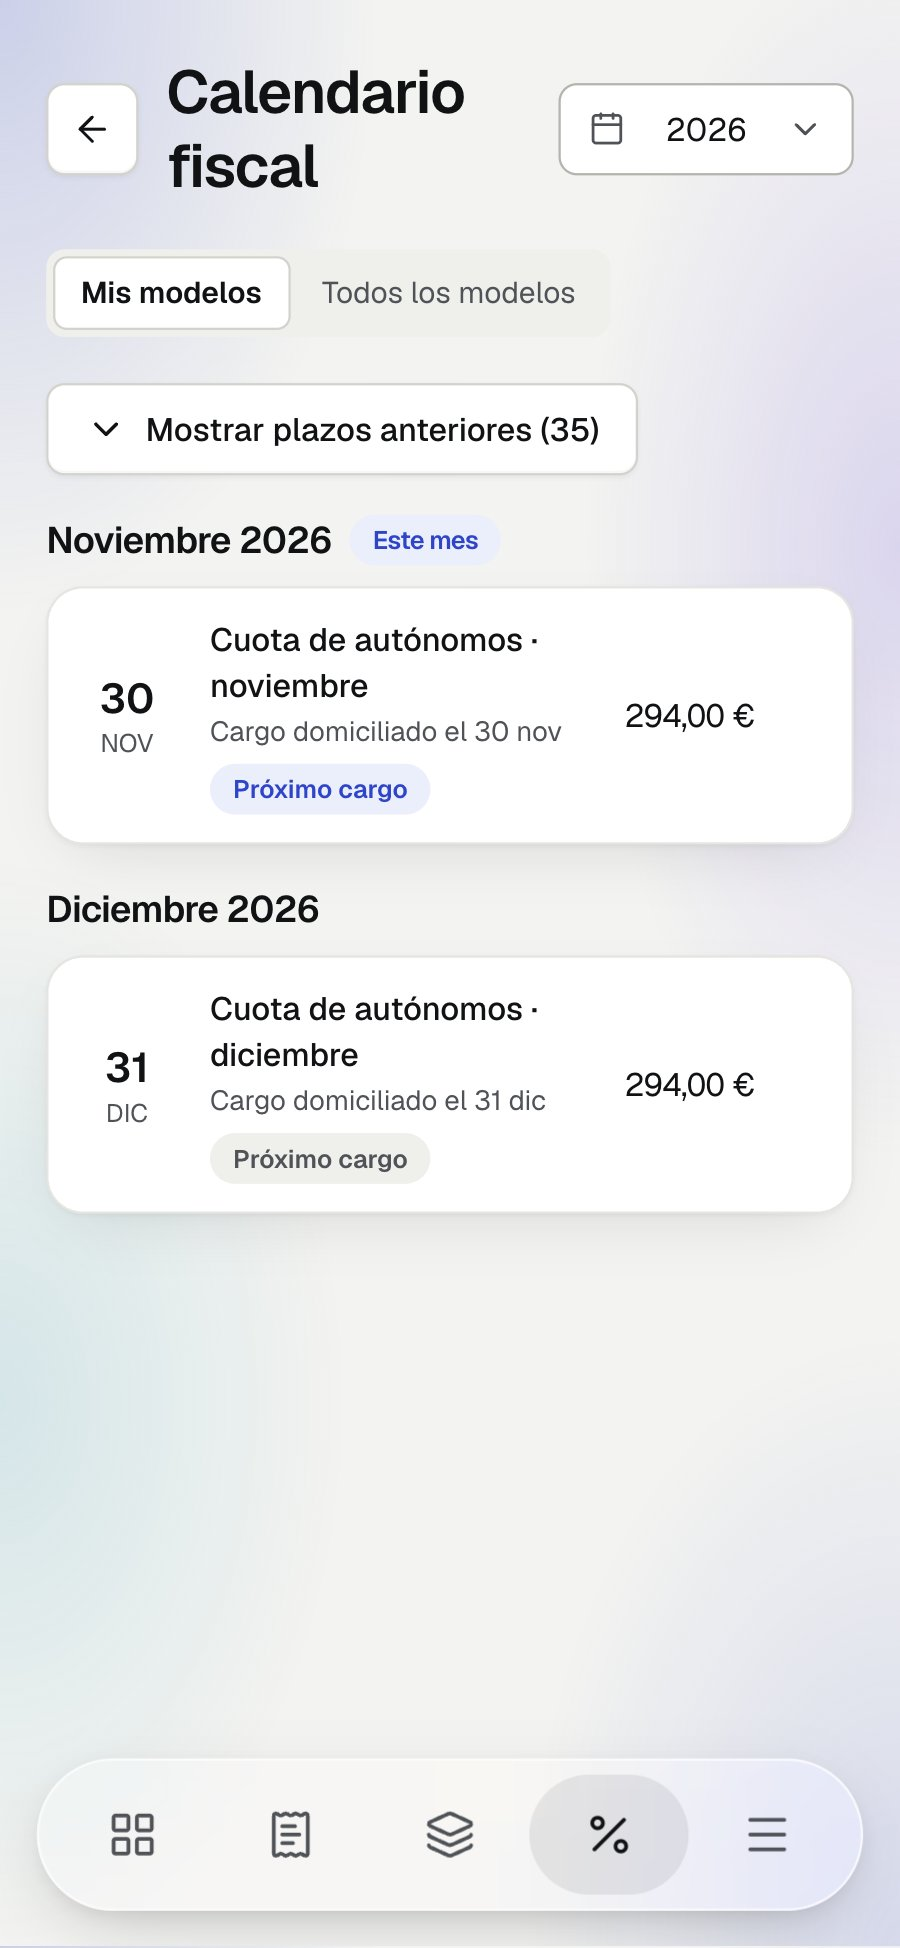
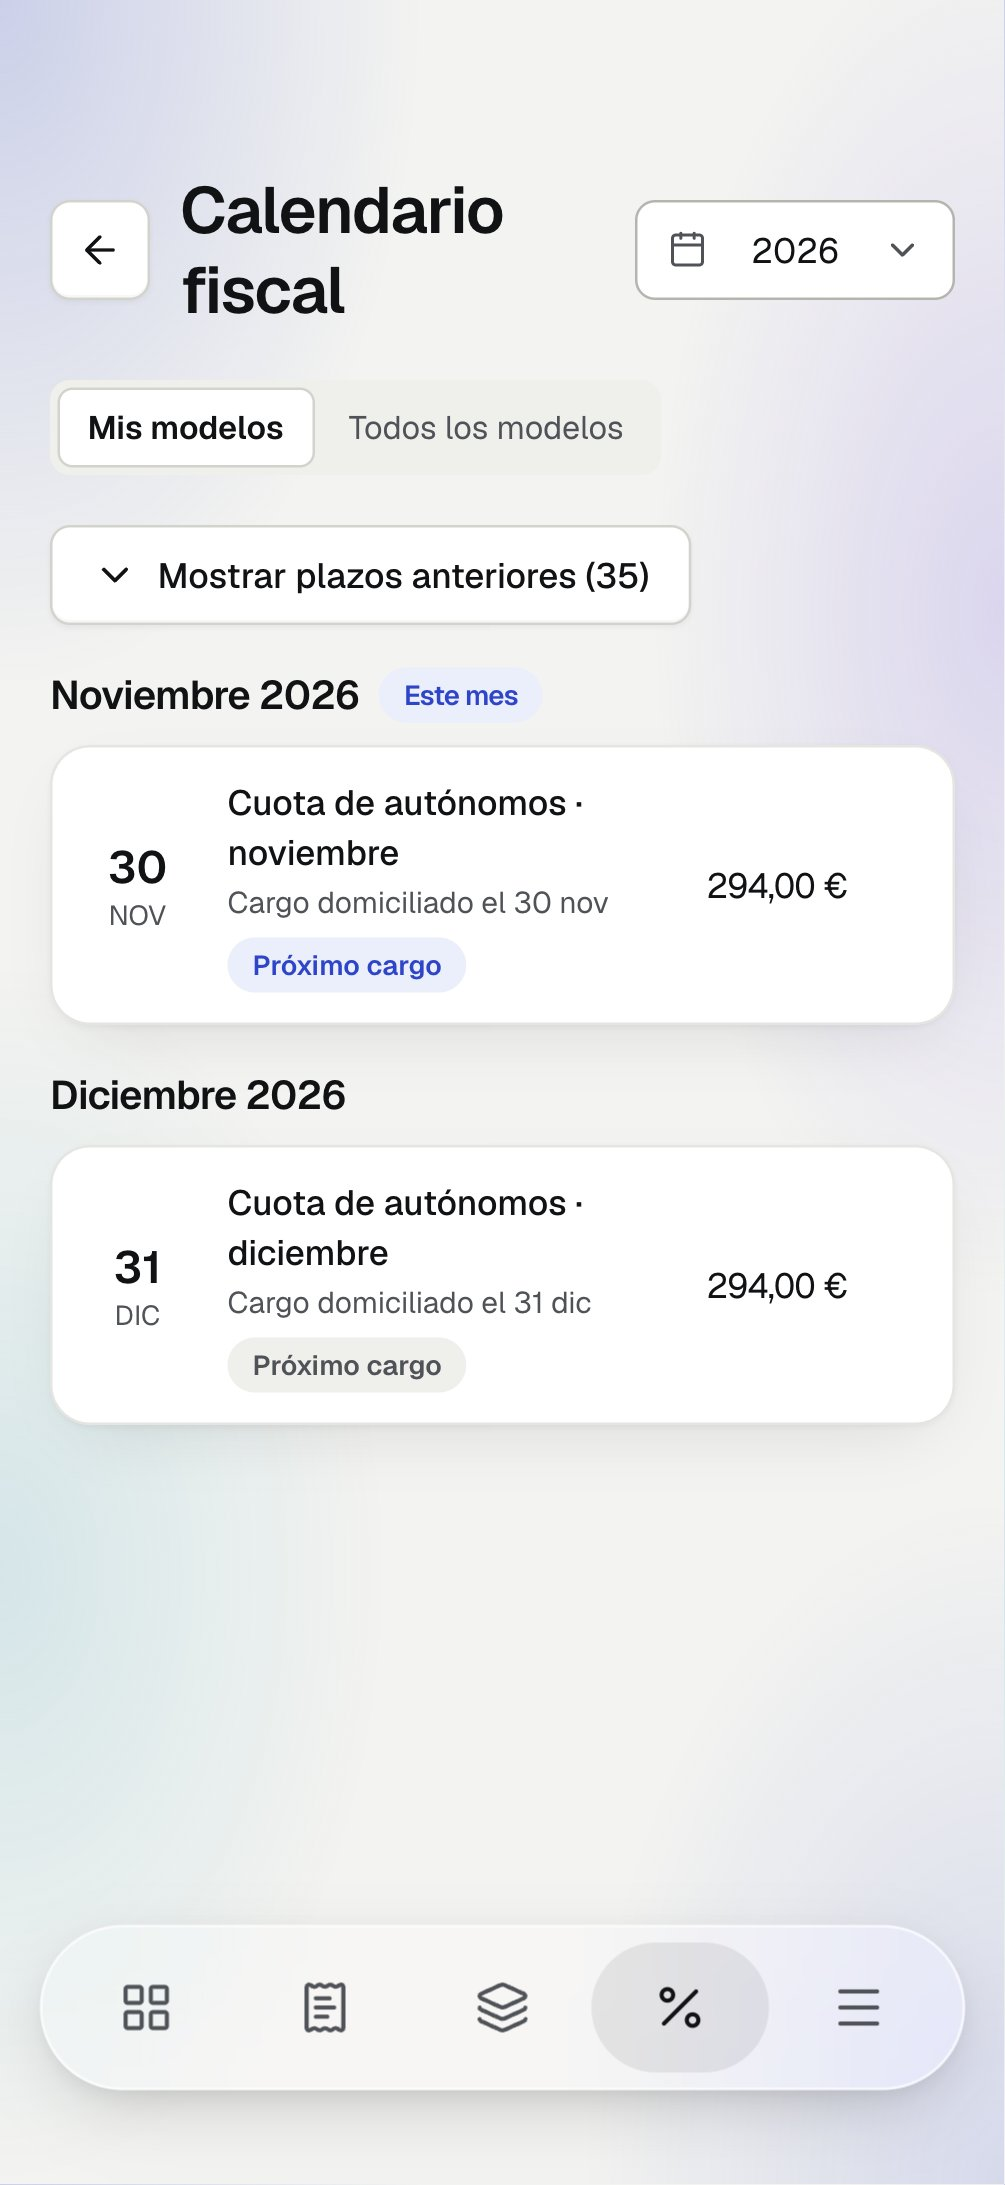
Show the phone screenshots in an iPhone 17 frame
The old frame cropped the screenshots to a shorter screen, cutting the tab bar
against the rounded corner. The new Phone component draws the titanium edge,
side buttons, Dynamic Island, status bar and home indicator, sized in container
units. Phone screenshots are retaken at 402x874 with room for the status bar
and the home indicator.

diff --git a/apps/site/src/styles/global.css b/apps/site/src/styles/global.css
@@ -9,12 +9,19 @@
 @theme {
   --shadow-tab: 0 1px 3px rgb(17 18 20 / 0.12);
   --shadow-frame: 0 1px 2px rgb(17 18 20 / 0.04), 0 40px 80px -40px rgb(17 18 20 / 0.28);
-  --shadow-phone: 0 30px 60px -16px rgb(17 18 20 / 0.45);
+  --shadow-phone:
+    inset 0 0 0 1px rgb(255 255 255 / 0.18), inset 0 1px 2px rgb(255 255 255 / 0.35), 0 30px 60px -16px rgb(17 18 20 / 0.45);
   /* App screenshot peeking out of a feature card: lifted toward its open top-left corner */
   --shadow-screen: 0 -1px 3px rgb(17 18 20 / 0.06), -10px -10px 36px -14px rgb(17 18 20 / 0.28);
   --shadow-shot: 0 20px 40px -24px rgb(17 18 20 / 0.25);
   --shadow-plan: 0 30px 60px -36px rgb(47 69 201 / 0.45);
 
+}
+
+/* The phone frame around the app's phone screenshots: a titanium edge around a black bezel */
+@theme inline {
+  --color-phone-bezel: var(--color-foreground);
+  --color-phone-edge: color-mix(in oklab, var(--color-foreground) 55%, var(--color-muted-foreground));
 }
 
 @layer base {
